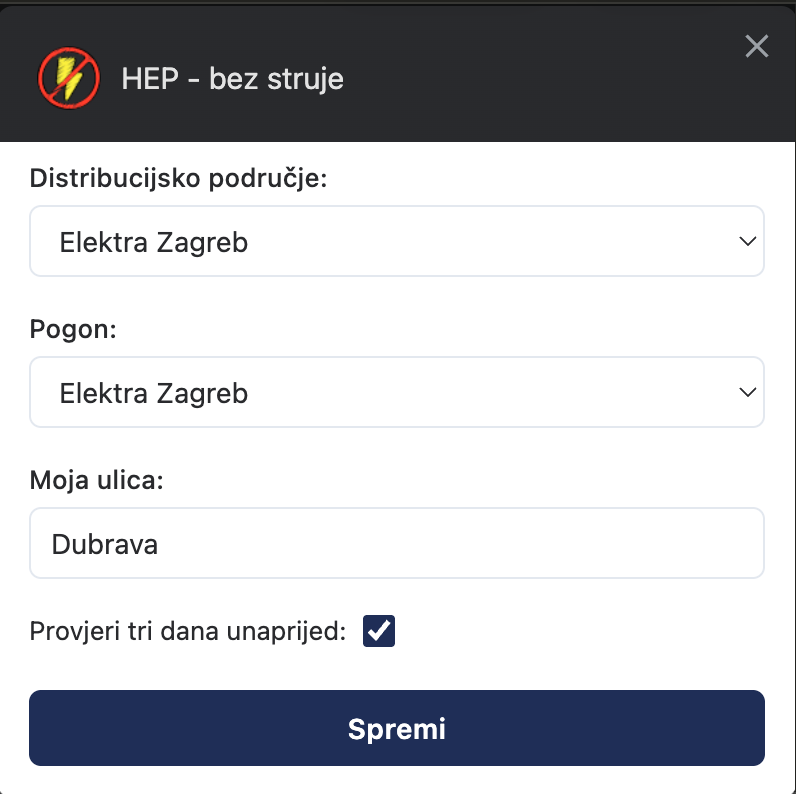
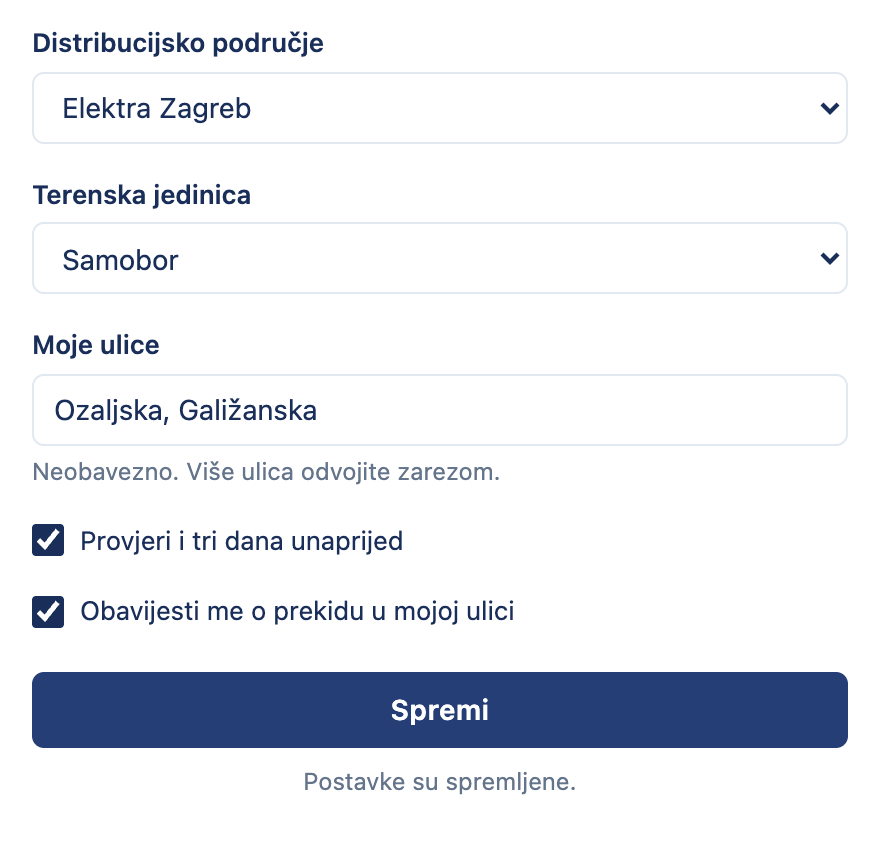
feat: generate readme screenshots from extension

diff --git a/e2e/screenshots.spec.ts b/e2e/screenshots.spec.ts
@@ -1,0 +1,49 @@
+import { resolve } from 'node:path';
+import { expect, test } from './fixtures.ts';
+
+const SCREENSHOT_DIR = resolve(import.meta.dirname, '../assets/screenshots');
+
+test.use({ deviceScaleFactor: 2 });
+
+test('README screenshots', async ({ hepServer, openExtensionPage }) => {
+  hepServer.serve({});
+
+  const firstSettings = await openExtensionPage('options.html');
+  await firstSettings.locator('#distributionArea').selectOption('zagreb');
+  await firstSettings.locator('#powerStation').selectOption('115');
+  await firstSettings.locator('#userStreet').fill('Ozaljska, Galižanska');
+  await firstSettings.locator('#notify').click();
+  await expect(firstSettings.locator('#notify')).toBeChecked();
+  await firstSettings.locator('.save-button').click();
+  await expect(firstSettings.getByRole('status')).not.toBeEmpty();
+  await firstSettings.close();
+
+  const emptyPopup = await openExtensionPage('popup.html', {
+    width: 480,
+    height: 150
+  });
+  await expect(emptyPopup.locator('.empty-state')).toBeVisible();
+  await emptyPopup.screenshot({ path: `${SCREENSHOT_DIR}/4-no-outages.png` });
+  await emptyPopup.close();
+
+  hepServer.serve({ 0: 'pula-121', 1: 'zagreb-ZG', 2: 'karlovac-KA' });
+
+  const settings = await openExtensionPage('options.html', {
+    width: 440,
+    height: 430
+  });
+  await settings.locator('#futureSearch').check();
+  await settings.locator('.save-button').click();
+  await expect(settings.getByRole('status')).not.toBeEmpty();
+  await settings.screenshot({ path: `${SCREENSHOT_DIR}/1-settings.png` });
+  await settings.close();
+
+  const popup = await openExtensionPage('popup.html', {
+    width: 480,
+    height: 600
+  });
+  await expect(popup.locator('.day')).toHaveCount(4);
+  await popup.screenshot({ path: `${SCREENSHOT_DIR}/2-list.png` });
+  await popup.emulateMedia({ colorScheme: 'dark' });
+  await popup.screenshot({ path: `${SCREENSHOT_DIR}/3-list-dark.png` });
+});

diff --git a/e2e/fixtures.ts b/e2e/fixtures.ts
@@ -2,6 +2,7 @@ import {
   type BrowserContext,
   chromium,
   type Page,
+  type ViewportSize,
   test as base,
   type Worker
 } from '@playwright/test';
@@ -15,7 +16,7 @@ interface IExtensionFixtures {
   context: BrowserContext;
   serviceWorker: Worker;
   extensionId: string;
-  openExtensionPage: (path: string) => Promise<Page>;
+  openExtensionPage: (path: string, viewport?: ViewportSize) => Promise<Page>;
 }
 
 export const test = base.extend<IExtensionFixtures>({
@@ -29,9 +30,10 @@ export const test = base.extend<IExtensionFixtures>({
     { auto: true }
   ],
 
-  context: async ({}, use) => {
+  context: async ({ deviceScaleFactor }, use) => {
     const context = await chromium.launchPersistentContext('', {
       channel: 'chromium',
+      deviceScaleFactor,
       args: [
         `--disable-extensions-except=${EXTENSION_DIR}`,
         `--load-extension=${EXTENSION_DIR}`
@@ -53,8 +55,12 @@ export const test = base.extend<IExtensionFixtures>({
   },
 
   openExtensionPage: async ({ context, extensionId }, use) => {
-    await use(async path => {
+    await use(async (path, viewport) => {
       const page = await context.newPage();
+
+      if (viewport) {
+        await page.setViewportSize(viewport);
+      }
 
       await page.goto(`chrome-extension://${extensionId}/${path}`);
 

diff --git a/playwright.config.ts b/playwright.config.ts
@@ -7,5 +7,9 @@ export default defineConfig({
   reporter: 'list',
   use: {
     trace: 'retain-on-failure'
-  }
+  },
+  projects: [
+    { name: 'e2e', testIgnore: 'screenshots.spec.ts' },
+    { name: 'screenshots', testMatch: 'screenshots.spec.ts' }
+  ]
 });
